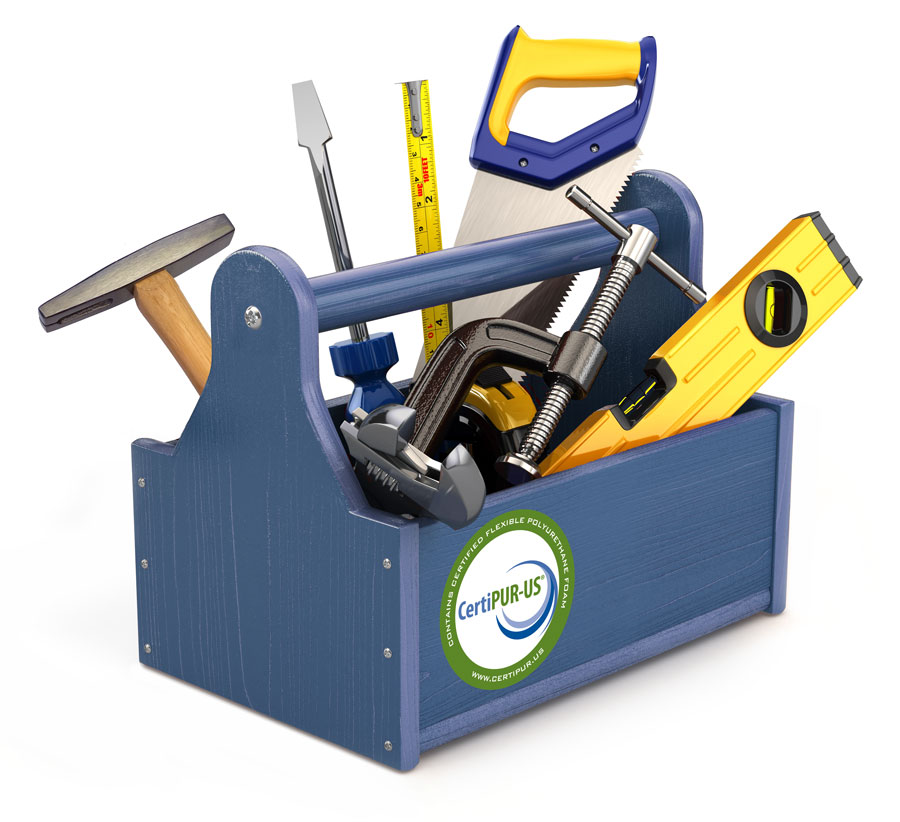
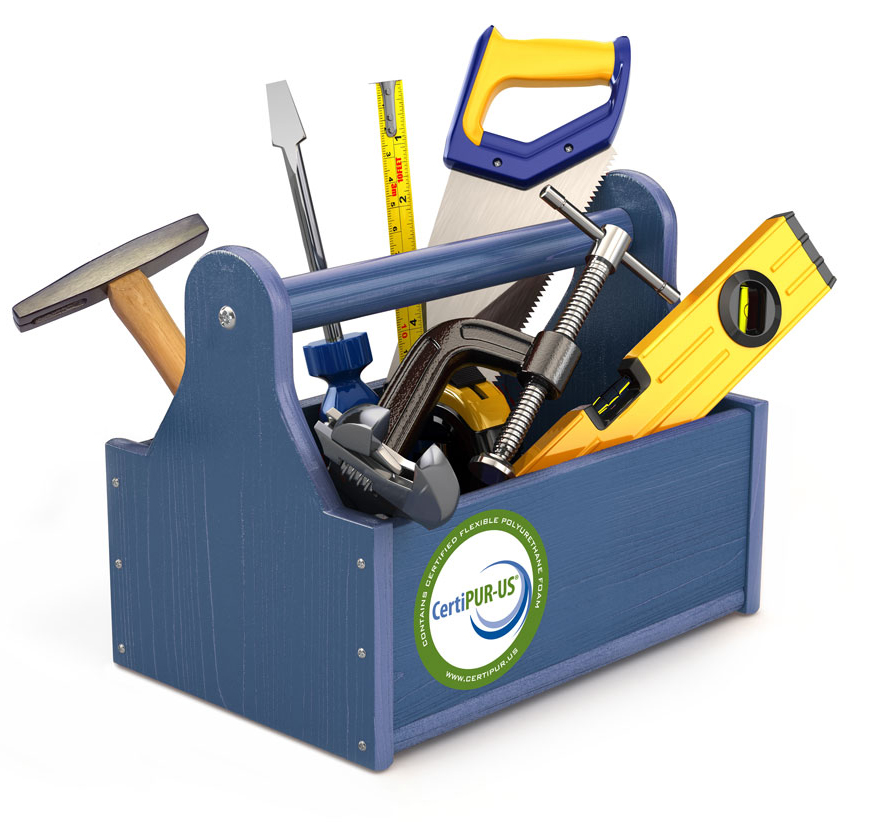
crop image size

Changed region(s): [[0.0, 0.0304, 0.9577, 0.9428]]

diff --git a/FurnWorldEblast.html b/FurnWorldEblast.html
@@ -11,13 +11,14 @@
         body {
             font-family: 'Mulish', Arial, sans-serif;
             line-height: 1.6;
-            margin: 20px;
+            margin: 1rem;
             max-width:600px;
             text-align:center;
             margin:0 auto;
             padding:2rem;
         }
         h1 {
+            font-size:2.5rem;
             color: #2c3e50;
             margin:0;
             padding:0;
@@ -25,6 +26,7 @@
             margin-top:-2rem;
         }
         h2 {
+            font-size:1.75rem;
             color: #34495e;
             margin:0;
             padding:0;
@@ -34,7 +36,7 @@
             
         }
         p {
-            margin-bottom: 15px;
+            margin-bottom: 1rem;
         }
         .green {color: #67963A;}
         .blue {color: #00468b;}
@@ -43,12 +45,12 @@
             text-decoration: none;
             font-weight:bold;
         }
-        
+
     </style>
 
 </head>
 <body>
-    <p><img src="images/toolbox_x900.jpg" alt="Toolbox Image" style="width:100%;"></p>
+    <p><img src="images/toolbox_x900.jpg" alt="Toolbox Image" style="width:100%"></p>
 <h1 class="blue">Build Your Brand to&nbsp;Last</h1>
 <h2 class="green">Every strong brand needs the right&nbsp;tools</h2>
 
@@ -64,6 +66,6 @@
 
 <p>Register today at <a href="https://certipur.us/register">certipur.us/register</a><br>Renew at <a href="https://certipur.us/renew">certipur.us/renew</a></p>
 
-<p style="margin-top:2rem;"><img src="images/CertiPUR-US_RGB_Transparent.png" style="width:175px;"alt="CertiPUR-US Logo" ></p>
+<p style="margin-top:2rem;"><img src="images/CertiPUR-US_RGB_Transparent.png" style="width:11rem;"alt="CertiPUR-US Logo"></p>
 </body>
 </html>
